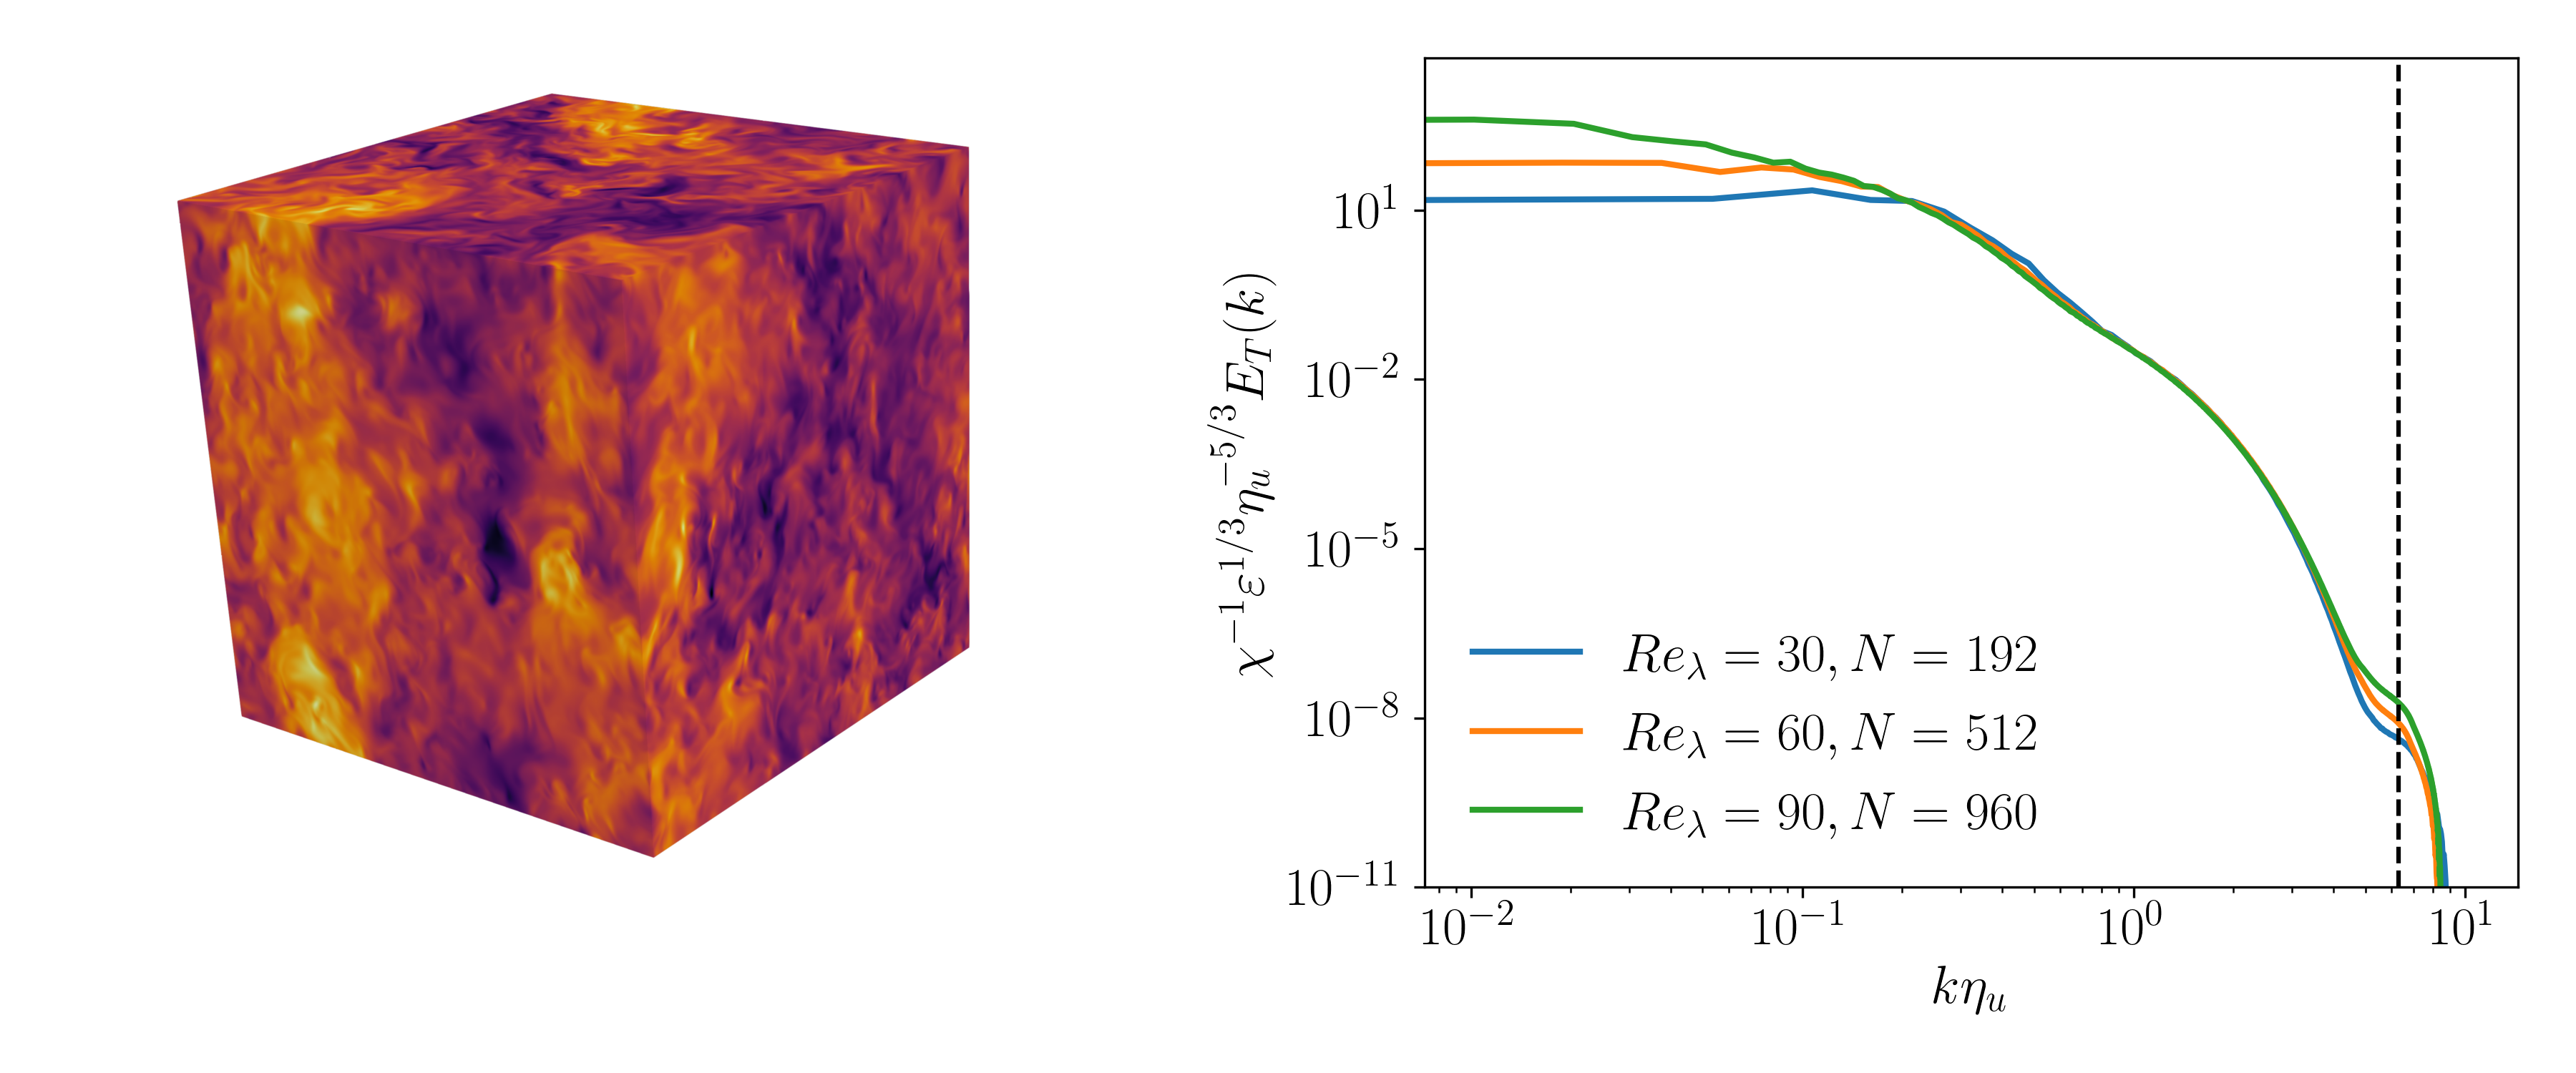
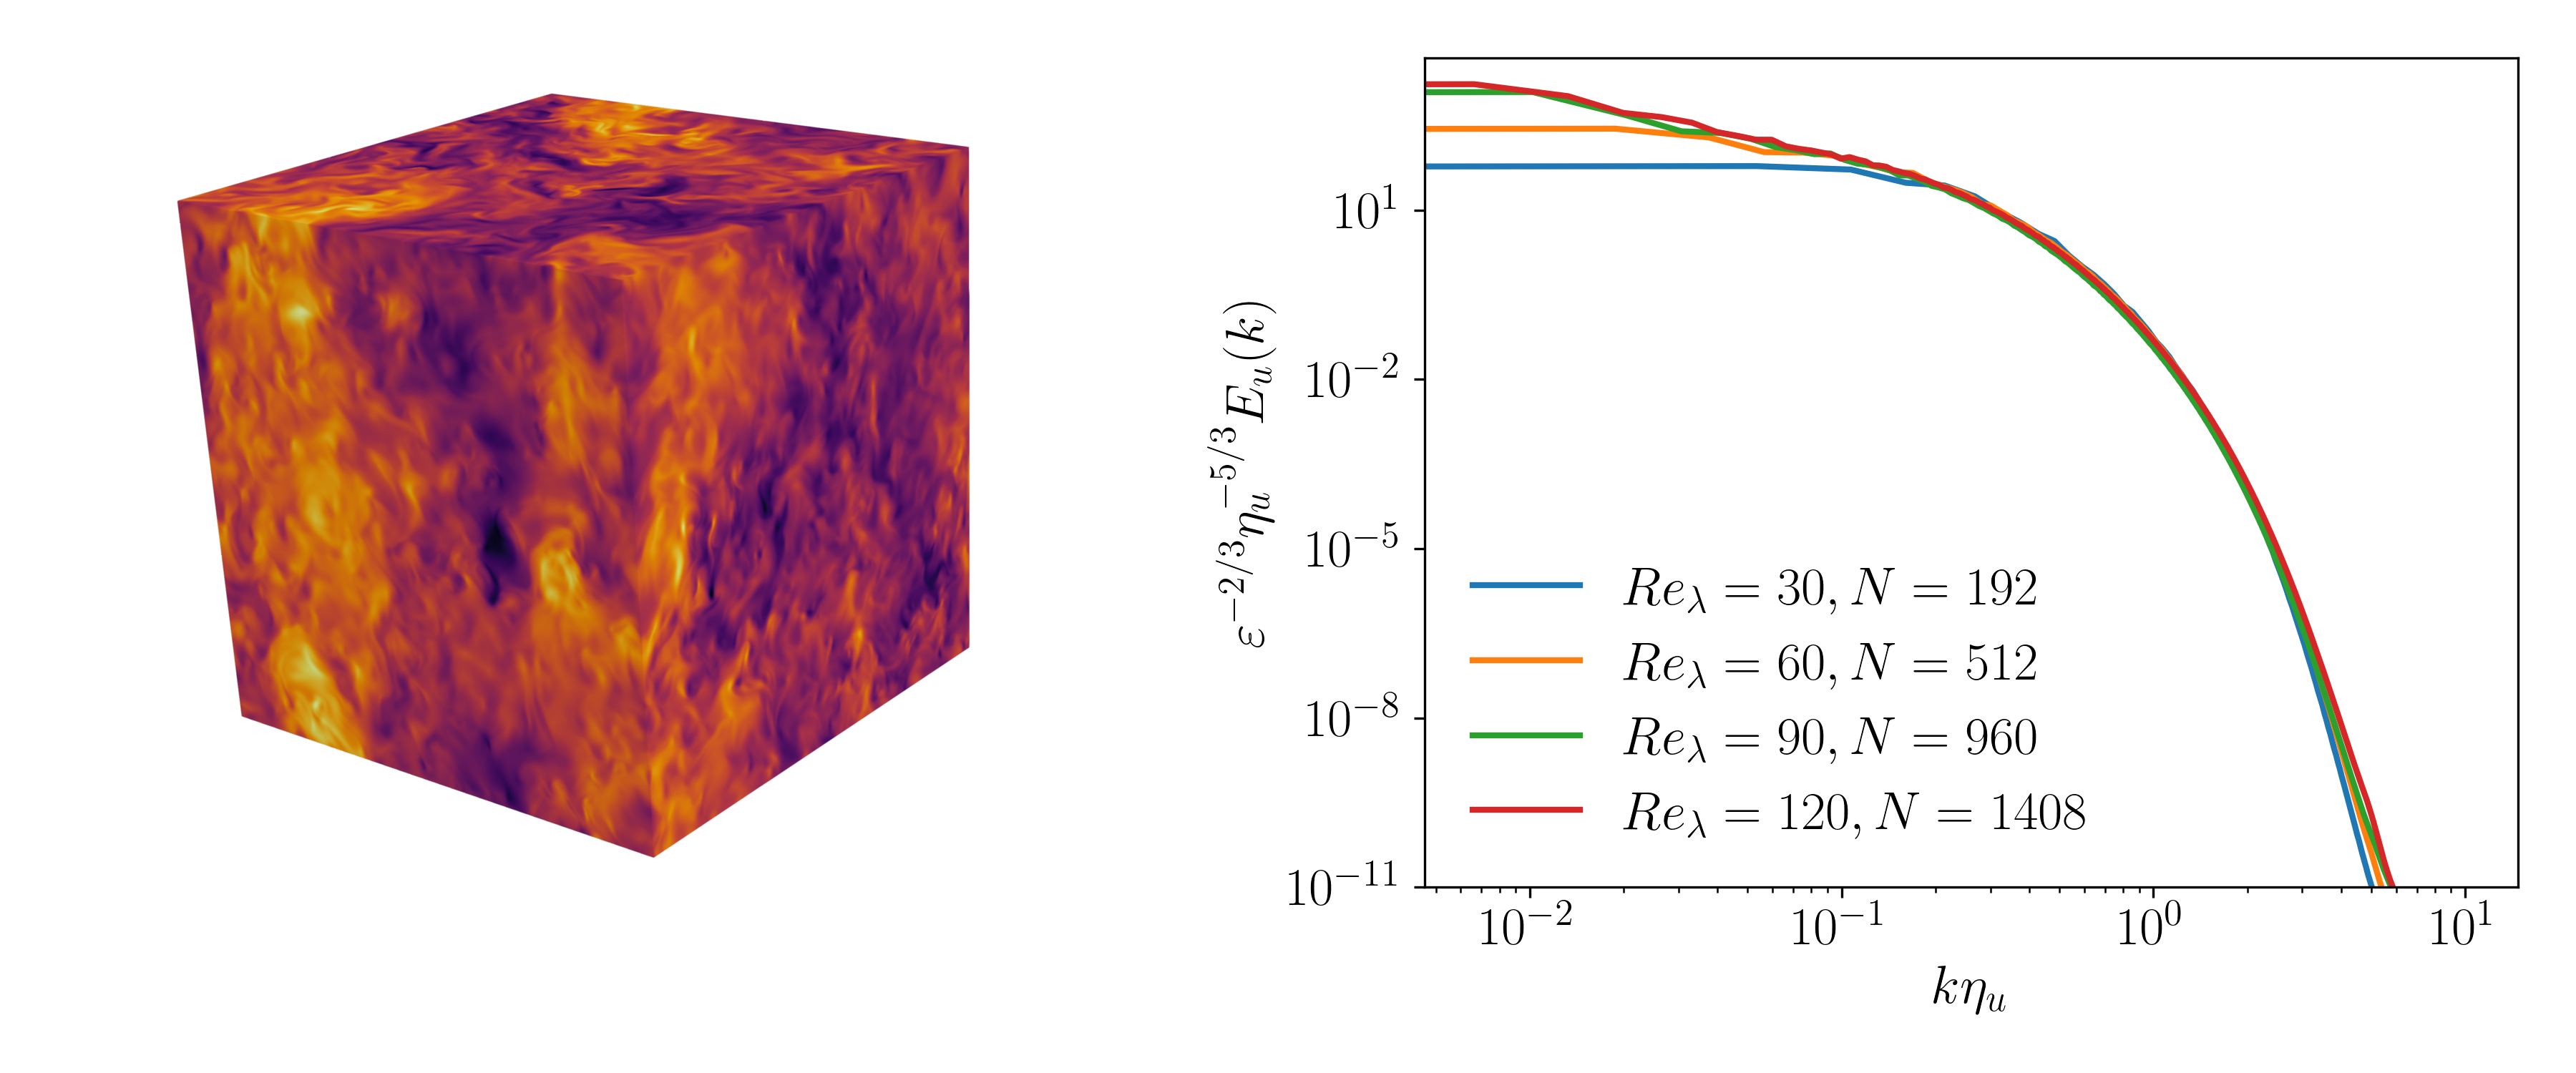
added re120 case

diff --git a/_datasets/supercritical_hit_dns.md b/_datasets/supercritical_hit_dns.md
@@ -1,7 +1,7 @@
 ---
 layout: datapage
-excerpt: (3 cases)
-title: Supercritical HIT CO$$_2$$ (Re$$_\lambda$$ = 30, 60, 90)
+excerpt: (4 cases)
+title: Supercritical HIT CO$$_2$$ (Re$$_\lambda$$ = 30, 60, 90, 120)
 description: Supercritical Homogeneous Isotropic Turbulence DNS
 header:
   teaser: /assets/img/ico_lluis2025-hit.png
@@ -19,16 +19,17 @@ categories:
 ## Description
 This dataset contains snapshots from Batchelor-resolved direct numerical simulations (DNSs) of homogeneous isotropic turbulence (HIT) of supercritical carbon dioxide ($$\text{CO}_2$$). The bulk pressure is fixed at $P_0/P_c = 2$, where $P_c = 7.38 \text{MPa}$ is the critical pressure of $$\text{CO}_2$$. The bulk temperature $T_0$ corresponds to the pseudo-boiling point at this pressure, identified by the maximum in the specific isobaric heat capacity $c_P$. At these conditions, the bulk Prandtl number is $Pr_0 = \mu_0c_{P_0}/\kappa_0 \approx 2.17$, where the subscript $0$ for the thermophysical variables denotes properties evaluated at the reference thermodynamic state {$P_0$,$T_0$}. Due to the higher-than-unity Prandtl number, thermal fluctuations persist at sub-Kolmogorov scales.
 
-Three Taylor Reynolds numbers are considered: $Re_\lambda \approx 30,\ 60, \text{ and } 90$. The computational domain is a triply periodic cube of side length $L = 5.5 L_0$, where $L_0$ is the integral length scale. The corresponding grids contain $N = 192,\ 512, \text{ and } 960$ interior points per direction, re- spectively. The grid resolutions satisfy $k_{max}\eta_T \approx 3.18–3.45$, where $k_{max} = \pi N/L$ is the maximum resolved wavenumber, $\eta_T = \eta_u/\sqrt{Pr_0}$ is the Batchelor scale, and $\eta_u = [(\mu_0/\rho_0)^3/\epsilon_0]^{1/4}$ is the Kolmogorov scale. The numerical grid includes two additional ghost points in each direction, which are used to impose the boundary conditions. Accordingly, the mesh coordinates in the i-th direction are then given by $x_i = −\Delta h/2 + j\Delta h$ $j = 0,...,N + 1$, where $\Delta h = L_{box}/N$ denotes the uniform grid spacing.
+Three Taylor Reynolds numbers are considered: $Re_\lambda \approx 30,\ 60,\ 90, \text{ and } 120$. The computational domain is a triply periodic cube of side length $L = 5.5 L_0$, where $L_0$ is the integral length scale. The corresponding grids contain $N = 192,\ 512,\ 960, \text{ and } 1408$ interior points per direction, respectively. The grid resolutions satisfy $k_{max}\eta_T \approx 3.18–3.45$, where $k_{max} = \pi N/L$ is the maximum resolved wavenumber, $\eta_T = \eta_u/\sqrt{Pr_0}$ is the Batchelor scale, and $\eta_u = [(\mu_0/\rho_0)^3/\epsilon_0]^{1/4}$ is the Kolmogorov scale. The numerical grid includes two additional ghost points in each direction, which are used to impose the boundary conditions. Accordingly, the mesh coordinates in the i-th direction are then given by $x_i = −\Delta h/2 + j\Delta h$ $j = 0,...,N + 1$, where $\Delta h = L_{box}/N$ denotes the uniform grid spacing.
 
 The equations of fluid motion are computationally solved using the in-house flow solver RHEA [1]. Spatial operators are treated using second-order central-differencing schemes, and time-advancement is explicitly performed by means of a third-order strong-stability pre-serving (SSP) Runge-Kutta approach [2]. The Kennedy-Gruber-Pirozzoli (KGP) splitting is adopted for the convective terms extended to high-pressure transcritical fluids turbulence [3], ensuring kinetic-energy preservation by convection. This numerical framework provides stable computations without the need of any form of artificial dissipation or stabilization procedures. To accurately
 capture the rapid variations in thermophysical properties across the pseudo-boiling line, thermodynamic properties are evaluated using the Peng–Robinson equation of state [4], while transport properties are determined from the correlations proposed by Chung et al. [5,6]. Turbulence is sustained using a solenoidal linear forcing following Watanabe et al. [7], which maintains statistically stationary conditions by enforcing a target root-mean-square velocity fluctuation $u_0$ and a prescribed dis-
 sipation rate per unit of volume $\rho_0\epsilon_0$, while conserving total energy $E$. Flow variables $(\rho, u, v, w, P, T)$ and thermophysical properties $(\mu, \kappa, c_p)$ are stored at a frequency
-corresponding to 5 snapshots per characteristic time $t_0$. This results in weak temporal correlation between consecutive snapshots. For the cases with $Re_\lambda \approx 30,\ 60, \text{ and } 90$, a total of $709,\ 40, \text{ and } 12$ snapshots, respectively, are included in the dataset. Further information can befound in Martin and Jofre [8].
+corresponding to 5 snapshots per characteristic time $t_0$. This results in weak temporal correlation between consecutive snapshots. For the cases with $Re_\lambda \approx 30,\ 60, \text{ and } 90$, a total of $709,\ 40, \text{ and } 12$ snapshots, respectively, are included in the dataset. For the largest case ($Re_\lambda \approx 120$), 4 snapshots
+spaced $1\times t_0$ are provided. Further information can befound in Martín and Jofre [8].
 
 
 ## Quick Info
-* Contributors: David Martin, Lluis Jofre
+* Contributors: David Martín, Lluís Jofre 
 *  N<sub>&#632;</sub> = 5 + 4
 
 * <a href="https://doi.org/10.1038/s41597-025-05693-3">DOI</a>
@@ -82,6 +83,21 @@ corresponding to 5 snapshots per characteristic time $t_0$. This results in weak
         <BR>
         </td>
     </tr>
+    <tr>       
+        <td align="center"> 4 </td>
+        <td align="center">120</td>
+        <td align="center">1410&times;1410&times;1410</td>
+        <td align="center">376</td>
+        <td align="center">
+        <div>
+        <a href="https://www.kaggle.com/datasets/blastnet/supercritical-hit-dns-re120-c1">Kaggle<sub>1</sub></a>, <a href="./assets/json/lluis2025-hit/supercritical-hit-dns-re120-c1-info.json">info.json<sub>1</sub></a>
+        </div>
+        <div>
+        <a href="https://www.kaggle.com/datasets/blastnet/supercritical-hit-dns-re120-c2">Kaggle<sub>2</sub></a>, <a href="./assets/json/lluis2025-hit/supercritical-hit-dns-re120-c2-info.json">info.json<sub>2</sub></a>
+        </div>        
+        <BR>
+        </td>
+    </tr>
 </table>
 
 ## References
@@ -93,4 +109,4 @@ Fund. 23, 8–13 (1984).
 [6] T. H. Chung, M. Ajlan, L. L. Lee, and K. E. Starling, “Generalized multiparameter correlation for nonpolar and polar fluid transport properties,” Ind. Eng. Chem. Fund. 27, 671–679 (1988).  
 [7] T. Watanabe, K. Tanaka, and K. Nagata, “Solenoidal linear forcing for compressible, statistically steady, homogeneous isotropic turbulence with reduced turbulent Mach number oscillation,”
 Phys. Fluids 33 (2021), 10.1063/5.0062596.  
-[8] D. Mart ́ın and L. Jofre, “High-fidelity database of supercritical homogeneous isotropic turbulence in the pseudo-boiling region,” Sci. Data 12 (2025), https://doi.org/10.1038/s41597-025-05693-3.  
+[8] D. Martín and L. Jofre, “High-fidelity database of supercritical homogeneous isotropic turbulence in the pseudo-boiling region,” Sci. Data 12 (2025), https://doi.org/10.1038/s41597-025-05693-3.  